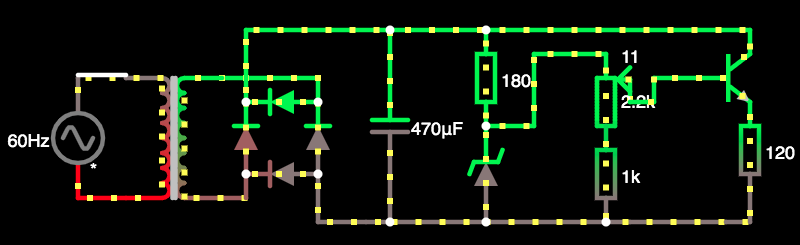
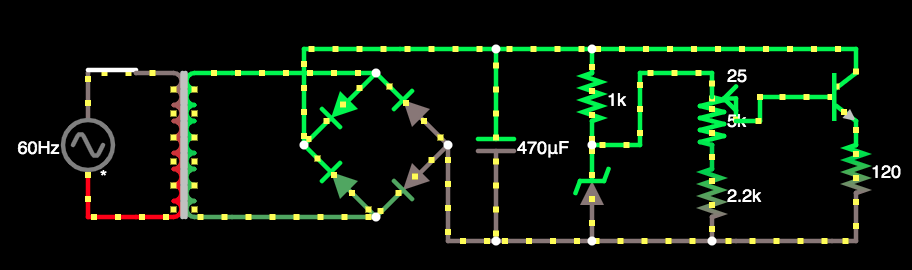
Fix project

Changed region(s): [[0.0, 0.0857, 1.0, 0.9429]]

diff --git a/README.md b/README.md
@@ -8,27 +8,29 @@
 ### Foto do circuito no Falstad:
 ### ![Falstad](Falstad.png)
 
-### Esquemático da fonte no EAGLE:
+<!-- ### Esquemático da fonte no EAGLE:
 ### ![EAGLE_FONTE](EAGLE_FONTE.jpeg)
 
 ### Esquemático da PCB no EAGLE:
-### ![EAGLE_PCB](EAGLE_PCB.jpeg)
+### ![EAGLE_PCB](EAGLE_PCB.jpeg) -->
 
 
 # Componentes
 | **Quantidade** | **Componente** | **Especificações** | **Valor** |
 |:---------------:|:---------------:|:-------------:|:---------------:|
 | 1x |[Switch](https://produto.mercadolivre.com.br/MLB-1300399738-boto-chave-gangorra-mini-interruptor-liga-desliga-on-off-10x15mm-kcd13-101-3a-250v-arduino-_JM?variation=42249952649&quantity=1#reco_item_pos=0&reco_backend=machinalis-seller-items-pdp&reco_backend_type=low_level&reco_client=vip-seller_items-above&reco_id=3b5ba658-e897-4edb-bdb5-659b62db67cc) | 250V e 3A | R$7,99 |
-| 1x |[Transformador](https://produto.mercadolivre.com.br/MLB-1253723183-transformador-trafo-2424v-300ma-bivolt-eletronica-_JM?matt_tool=82322591&matt_word&gclid=Cj0KCQjw3Nv3BRC8ARIsAPh8hgLXZgnFr5Hp9iApZDPNMp8cpAg7tn35FChWVQIqDIILeqjcO1U_S98aArt6EALw_wcB&quantity=1) | 24V e 300mA | R$29,99 |
-| 4x |[Diodo](https://www.autoeletronica.net/produtos/diodo-retificador-1n5404) | 400V e 3A | R$0,38 |
-| 1x |[Kit resistores](https://produto.mercadolivre.com.br/MLB-1508963482-kit-resistores-essenciais-14w-500pcs-escolha-10-valores-_JM?matt_tool=79246729&matt_word&gclid=Cj0KCQjw3Nv3BRC8ARIsAPh8hgIupt2nVKXXqpCT_FToIKbaTNeMJ-NzZfGllE_OkiuEosBMVT6fUeoaAgiaEALw_wcB&quantity=1) | 10Ω/100Ω/1kΩ | R$30,00 |
+| 1x |[Transformador](https://produto.mercadolivre.com.br/MLB-1304922688-transformador-trafo-1818v-200ma-bivolt-eletrnica-_JM?matt_tool=82322591&matt_word&gclid=CjwKCAjwxev3BRBBEiwAiB_PWBbZ2aHFM5DoBshLVzkNvkgx2N9hKW23WtSlJJcJrxYljOzxjykEoRoCScYQAvD_BwE&quantity=1) | 18V e 200mA | R$27,99 |
+| 4x |[Diodo](https://www.autoeletronica.net/produtos/diodo-retificador-1n5404) | 400V e 3A | R$1,52 |
+| 10x |[Resistor](https://produto.mercadolivre.com.br/MLB-1572512618-resistor-22k-18w-1-thru-hole-10-unidades-_JM?matt_tool=79246729&matt_word&gclid=CjwKCAjwxev3BRBBEiwAiB_PWOBvqco0yUZbPd3xXd7Ti-PVZdboXUzZH0d8ussTLM_GGaiamZP50BoCfEoQAvD_BwE&quantity=1) | 2.2kΩ | R$7,49 |
+| 10x |[Resistor](https://produto.mercadolivre.com.br/MLB-1081590858-resistor-330-ohm-14w-x10-unidades-_JM?matt_tool=79246729&matt_word&gclid=CjwKCAjwxev3BRBBEiwAiB_PWPZVyY5hrMQogfYeHEgrmEZnsXhYw7r5HUP3vIDR38NJfJYycf9EUhoCMmkQAvD_BwE&quantity=1) | 330Ω | R$6,99 |
+| 10x |[Resistor](https://produto.mercadolivre.com.br/MLB-1018650605-kit-10-x-resistor-120-ohm-5-14w-025w-120r-arduino-pic-_JM?matt_tool=79246729&matt_word&gclid=CjwKCAjwxev3BRBBEiwAiB_PWKfn6PA1H1P_61IlRabAfL3WufIbumeBCf10bZfJuTmiYePV2-X9HRoCi9cQAvD_BwE&quantity=1) | 120Ω | R$8,65 |
 | 1x |[Capacitor](https://www.eletrogate.com/capacitor-eletrolitico-470uf-x-50v?utm_source=Site&utm_medium=GoogleMerchant&utm_campaign=GoogleMerchant&gclid=Cj0KCQjw3Nv3BRC8ARIsAPh8hgJ2Kgakz5yJfnDUHAmi37V7dUP6w2IKSyBl1VksmPlQwvk_MMea2ZgaAmnKEALw_wcB) | 470uF | R$0,90 |
 | 1x |[Diodo Zener](https://www.americanas.com.br/produto/1397103736?opn=YSMESP&sellerid=4145166000157&epar=bp_pl_00_go_am_todas_geral_gmv&WT.srch=1&acc=e789ea56094489dffd798f86ff51c7a9&i=5dd8ae5049f937f6254fab94&o=5df60079f8e95eac3dac6177&gclid=Cj0KCQjw3Nv3BRC8ARIsAPh8hgIL562GLJVjPZFYEWPE8kXANQGuBsye2JKJisaPoG6w3PX7TJy3cGIaAltrEALw_wcB) | 13V e 1W | R$0,60 |
-| 1x |[Potenciômetro](https://pt.aliexpress.com/item/32848715135.html?src=google&src=google&albch=shopping&acnt=494-037-6276&isdl=y&slnk=&plac=&mtctp=&albbt=Gploogle_7_shopping&aff_atform=google&aff_short_key=UneMJZVf&&albagn=888888&albcp=7303158455&albag=86143156931&trgt=883147839979&crea=pt32848715135&netw=u&device=c&albpg=883147839979&albpd=pt32848715135&gclid=Cj0KCQjw3Nv3BRC8ARIsAPh8hgJCE_fC1pTmLaH6x_OhnIQIG1EOQxaMdB_r3-dds5elVMA30CBOIDAaAkRLEALw_wcB&gclsrc=aw.ds) | 2.2kΩ | R$7,64 |
+| 1x |[Potenciômetro](https://www.magazineluiza.com.br/potenciometro-5k-linear-estriado-15mm-wh148-b5k-l15-ncl/p/cb244eacd6/cj/ptct/?&1=1&seller_id=casadarobotica&&utm_source=google&utm_medium=pla&utm_campaign=&partner_id=54222&gclid=CjwKCAjwxev3BRBBEiwAiB_PWCzLCRQFZbqyxHrqGAP6q1-wtv8JZTKYs0IlJbpythvAmF4CQ-itcRoCl3wQAvD_BwE) | 5kΩ | R$1,99 |
 | 1x |[Transistor](https://www.robocore.net/loja/itens-eletronicos/transistor-npn-tip122?gclid=Cj0KCQjw3Nv3BRC8ARIsAPh8hgLH4DNOuhtfnZSzVS-3N3OBPhqspcy9cVkdt3Z7M0HruGtxnt3bOhQaAqJKEALw_wcB) | NPN TIP122 | R$1,75 |
-|Custo Total || | **R$80,39** |
+|Custo Total || | **R$65,87** |
 
 # Links
-- Fonte no Falstad **[aqui](http://tinyurl.com/y8rnal6y)**
-- Video de explicação do projeto **[aqui](https://drive.google.com/file/d/1X_Mr5KcOmpUZH70PH2957HaP2GcEOOvY/view?usp=sharing)**
-- Projeto no EAGLE **[aqui](https://drive.google.com/drive/folders/1j5e8xloiBMldnsLnyuZVLP4RS490jOJd?usp=sharing)**
+- Fonte no Falstad **[aqui](http://tinyurl.com/y7fwodpc)**
+- Video de explicação do projeto **[aqui]()**
+- Projeto no EAGLE **[aqui]()**
